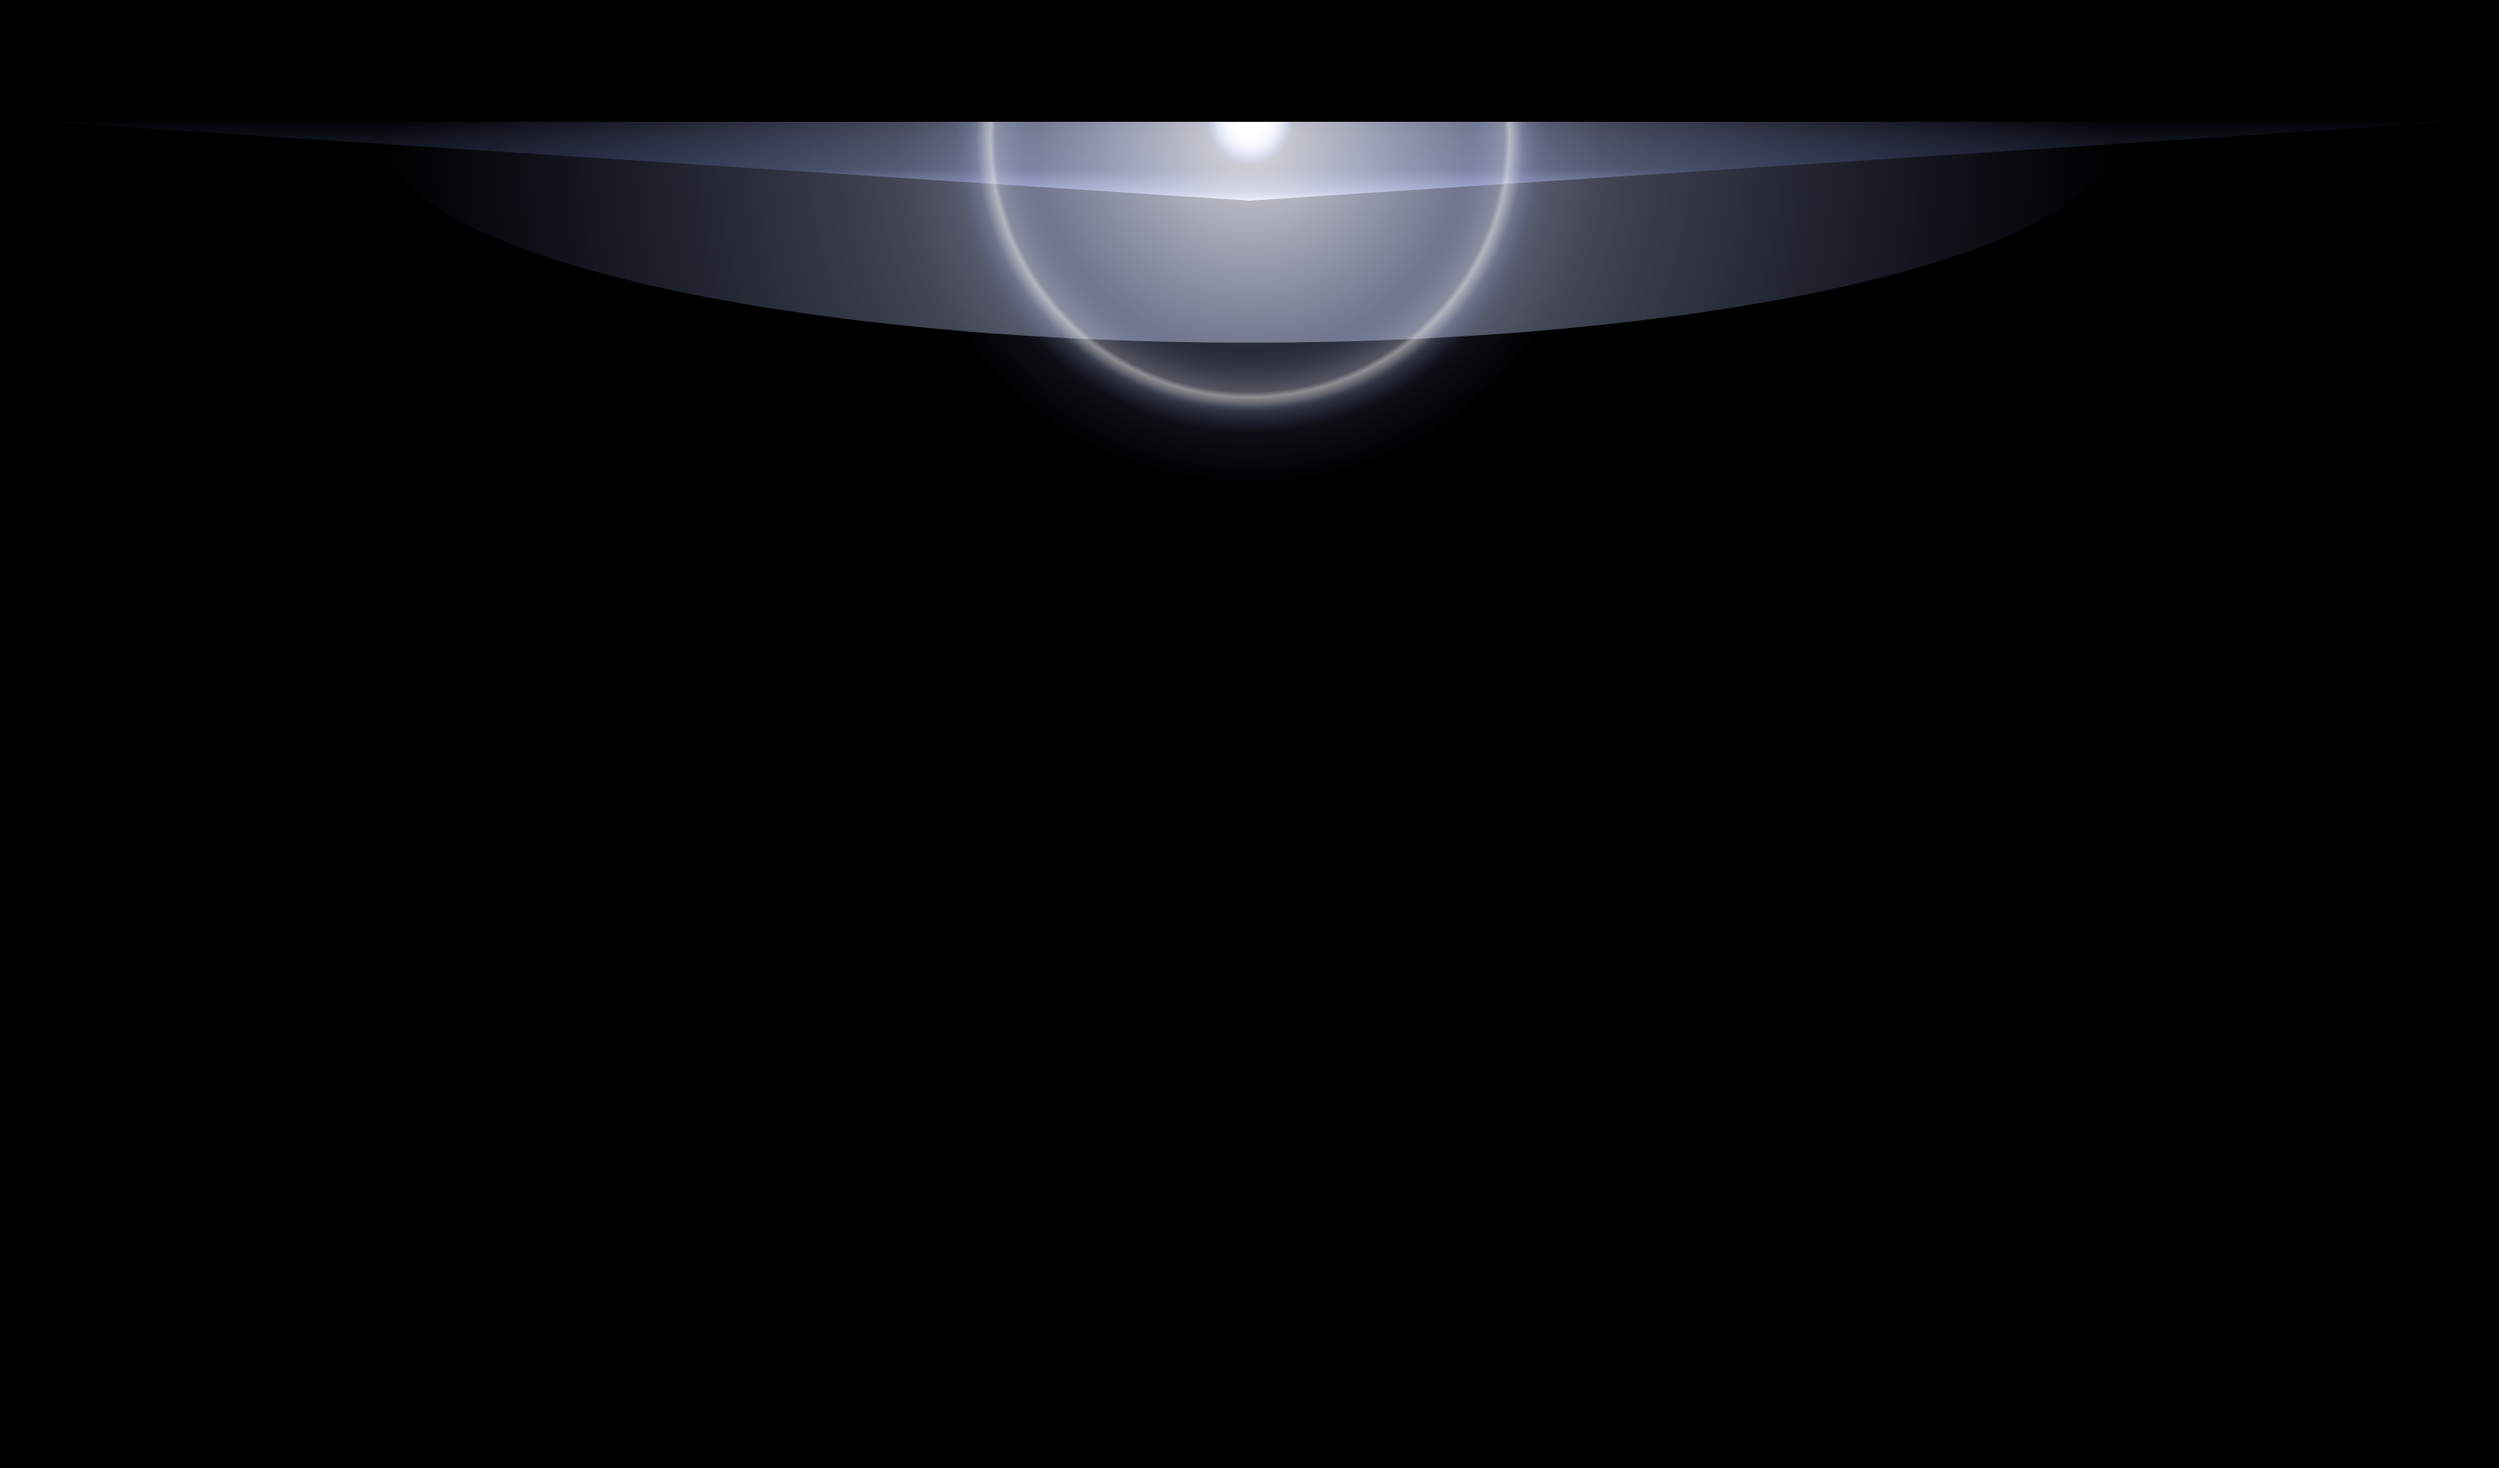
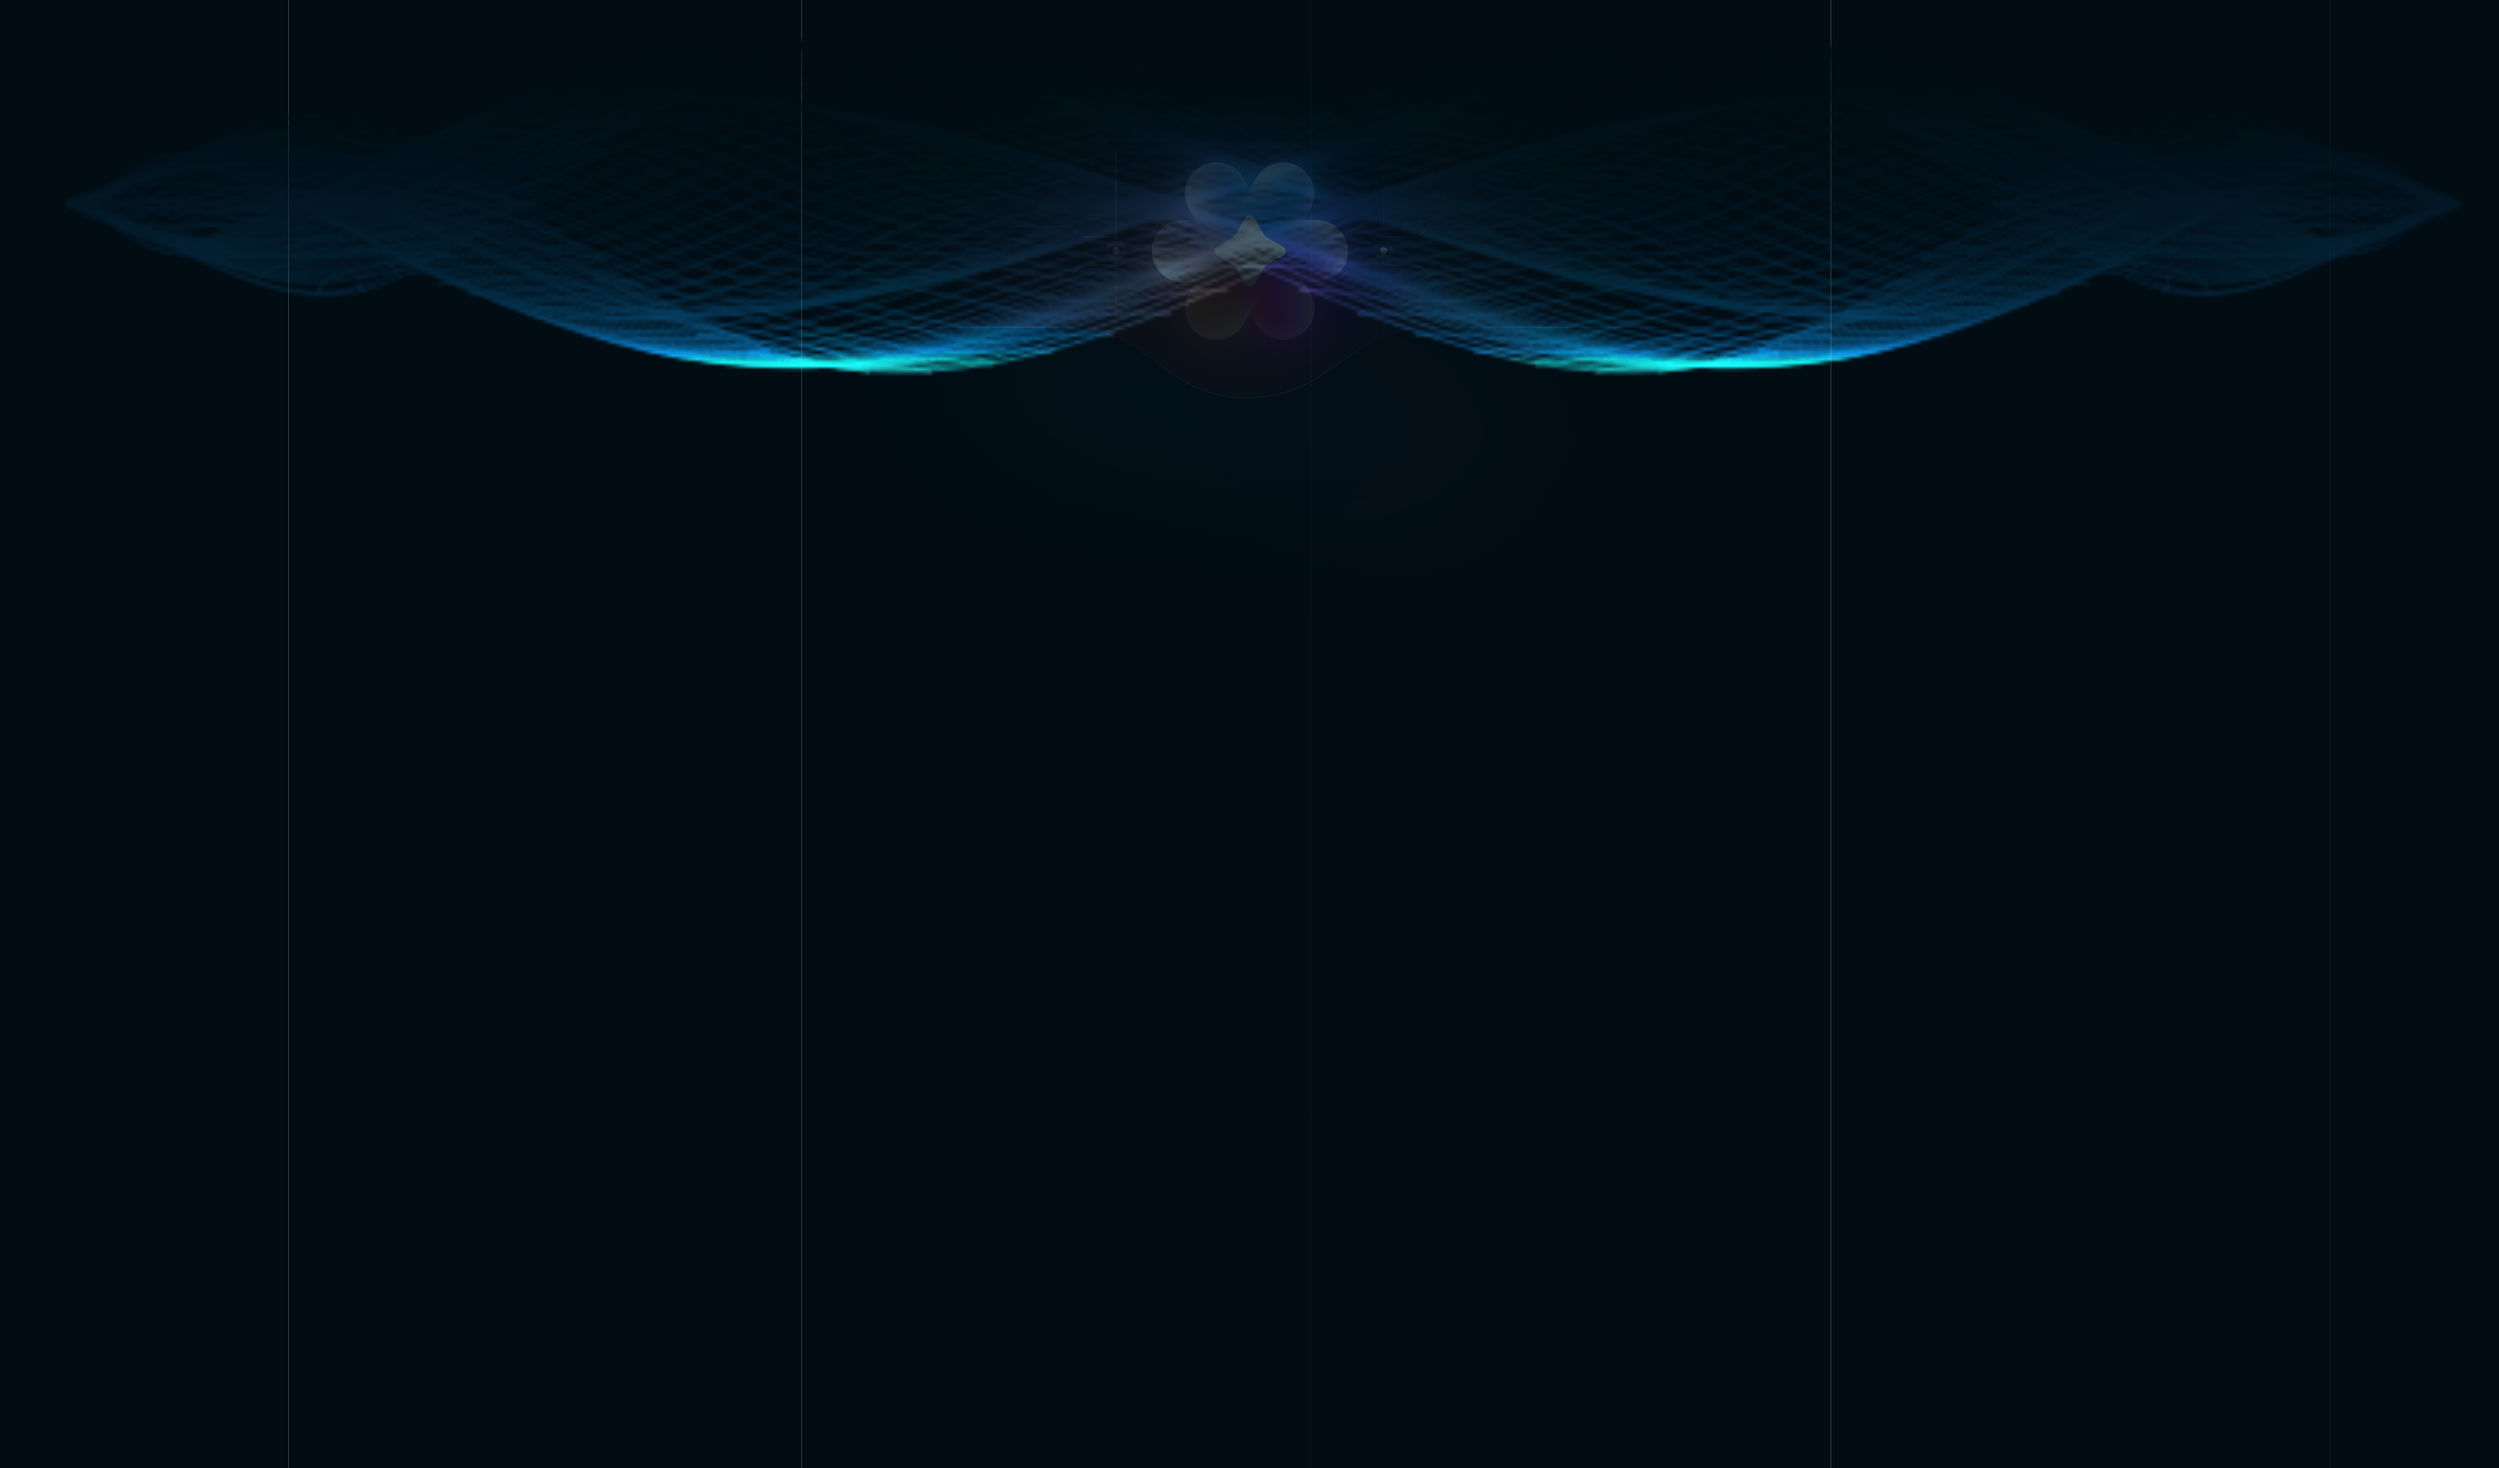
Fixed the landing page UI

Changed region(s): [[0.0312, 0.0617, 1.0, 0.3085]]

diff --git a/components/pages/LandingPage.tsx b/components/pages/LandingPage.tsx
@@ -40,9 +40,8 @@ export default function LandingPage() {
 
   return (
     <>
-      <div className="min-h-screen relative overflow-hidden bg-gray-900 dark:bg-gray-900 page-content">
+      <div className="min-h-screen relative overflow-hidden page-content">
         {/* Background Image Layer - Temporarily disabled */}
-        {/*
         <div
           className="absolute inset-0 opacity-30"
           style={{
@@ -51,7 +50,6 @@ export default function LandingPage() {
             backgroundPosition: "center -50px",
           }}
         ></div>
-        */}
         {/* Background elements removed - no gradients */}
 
         {/* Hero Section */}
@@ -210,7 +208,6 @@ export default function LandingPage() {
                     className="
           group relative h-full
           rounded-xl border border-white/10
-          bg-neutral-900
           p-6
           transition-all duration-200
           hover:border-white/25
@@ -330,7 +327,6 @@ export default function LandingPage() {
           group h-full
           rounded-xl
           border border-neutral-800
-          bg-neutral-900
           p-6
           transition-colors duration-200
           hover:border-neutral-600
@@ -367,10 +363,7 @@ export default function LandingPage() {
         </section>
 
         {/* Developer APIs CTA Section */}
-        <section className="relative overflow-hidden">
-          {/* Background Elements */}
-          <div className="absolute inset-0 bg-black"></div>
-
+        <section className="relative overflow-hidden bg-[#111827]">
           <div className="max-w-7xl mx-auto px-4 sm:px-6 lg:px-8 relative z-10">
             <motion.div
               initial={{ opacity: 0, y: 30 }}
@@ -437,7 +430,6 @@ export default function LandingPage() {
         group h-full
         rounded-xl
         border border-neutral-800
-        bg-neutral-900
         p-6
         transition-colors
         hover:border-neutral-600

diff --git a/components/layout/Footer.tsx b/components/layout/Footer.tsx
@@ -48,7 +48,7 @@ export default function Footer() {
   ];
 
   return (
-    <footer className="relative bg-black border-t border-gray-700">
+    <footer className="relative bg-black">
       {/* Background Elements */}
       <div className="absolute top-0 left-1/4 w-96 h-96 bg-cyan-500/5 rounded-full blur-3xl"></div>
       <div className="absolute bottom-0 right-1/4 w-96 h-96 bg-blue-500/5 rounded-full blur-3xl"></div>
